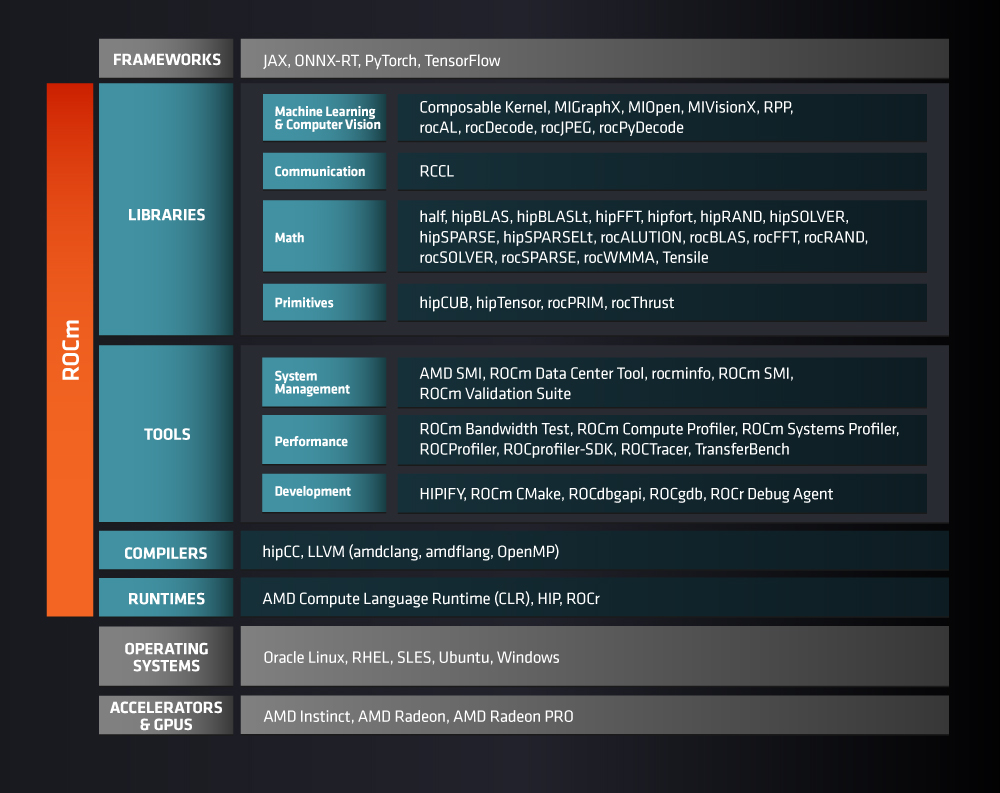
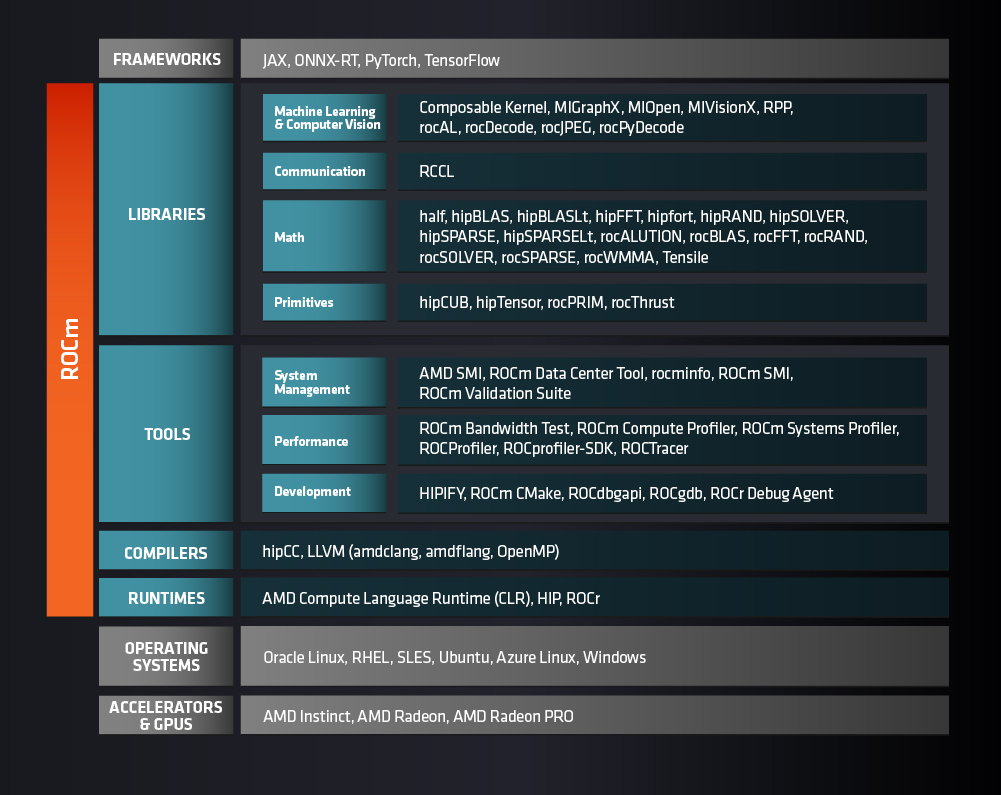
Add GitHub issue links in known issues + update stack diagram (#4091)
* add GitHub issue links in known issues

* Update stack diagram

* remove extra img

diff --git a/tools/autotag/templates/known_issues/6.3.0.md b/tools/autotag/templates/known_issues/6.3.0.md
@@ -6,12 +6,13 @@ issues related to individual components, review the [Detailed component changes]
 ### Instinct MI300X reports incorrect raw GPU timestamps
 
 On MI300X accelerators, the command processor firmware reports incorrect raw GPU timestamps. This
-issue is under investigation and will be addressed in a future release.
+issue is under investigation and will be addressed in a future release. See [GitHub issue #4079](https://github.com/ROCm/ROCm/issues/4079).
 
 ### Instinct MI300 series: backward weights convolution performance issue
 
 A performance issue affects certain tensor shapes during backward weights convolution when using
 FP16 or FP32 data types on Instinct MI300 series accelerators. This issue will be addressed in a future ROCm release.
+See [GitHub issue #4080](https://github.com/ROCm/ROCm/issues/4080).
 
 To mitigate the issue during model training, set the following environment variables:
 
@@ -30,7 +31,7 @@ section in the workload optimization guide to learn more about MIOpen's auto-tun
 
 TransferBench packages included in the ROCm 6.3.0 release are not compiled properly and are not
 functional for most GPU targets, with the exception of gfx906. Full functionality will be available
-in a future ROCm release.
+in a future ROCm release. See [GitHub issue #4081](https://github.com/ROCm/ROCm/issues/4081).
 
 TransferBench is a utility for benchmarking simultaneous transfers between user-specified devices
 (CPUs or GPUs). See the documentation at [TransferBench
@@ -45,6 +46,7 @@ Instead, use `apt install rocprofiler-compute`. See [ROCm Compute Profiler 3.0.0
 
 When upgrading from ROCm 6.2 to 6.3, any existing `/opt/rocm-6.2/../omniperf` folders are not
 automatically removed. To clean up these folders, manually uninstall Omniperf using `apt remove omniperf`.
+See [GitHub issue #4082](https://github.com/ROCm/ROCm/issues/4082).
 
 ### ROCm Systems Profiler post-upgrade
 
@@ -53,6 +55,7 @@ Instead, use `apt install rocprofiler-systems`. See [ROCm Systems Profiler 0.1.0
 
 When upgrading from ROCm 6.2 to 6.3, any existing `/opt/rocm-6.2/../omnitrace` folders are not
 automatically removed. To clean up these folders, manually uninstall Omnitrace using `apt remove omnitrace`.
+See [GitHub issue #4083](https://github.com/ROCm/ROCm/issues/4083).
 
 ### Stale file due to OpenCL ICD loader deprecation
 
@@ -60,7 +63,7 @@ When upgrading from ROCm 6.2.x to ROCm 6.3.0, the [removal of the `rocm-icd-load
 package](#opencl-icd-loader-separated-from-rocm) leaves a stale file in the old `rocm-6.2.x`
 directory. This has no functional impact. As a workaround, manually uninstall the
 `rocm-icd-loader` package to remove the stale file. This issue will be addressed in a future ROCm
-release.
+release. See [GitHub issue #4084](https://github.com/ROCm/ROCm/issues/4084).
 
 ### ROCm Compute Profiler CTest failure in CI
 
@@ -68,7 +71,7 @@ When running ROCm Compute Profiler's (`rocprof-compute`) CTest in the Azure CI e
 `rocprof-compute` execution test fails. This issue is due to an outdated test file that was not renamed
 (`omniperf` to `rocprof-compute`), and due to the `ROCM_PATH` environment variable not being set in
 the Azure CI environment, causing the tool to be unable to extract chip information as expected.
-This issue will be addressed in a future ROCm release.
+This issue will be addressed in a future ROCm release. See [GitHub issue #4085](https://github.com/ROCm/ROCm/issues/4085).
 
 ### MIVisionX memory access fault in Canny edge detection
 
@@ -76,7 +79,7 @@ Canny edge detection kernels might access out-of-bounds memory locations while
 computing gradient intensities on edge pixels. This issue is isolated to
 Canny-specific use cases on Instinct MI300 series accelerators. This issue is
 resolved in the [MIVisionX `develop` branch](https://github.com/ROCm/mivisionx)
-and will be part of a future ROCm release.
+and will be part of a future ROCm release. See [GitHub issue #4086](https://github.com/ROCm/ROCm/issues/4086).
 
 ### Transformer Engine test_distributed_fused_attn aborts with fatal Python error
 
@@ -84,18 +87,20 @@ The `test_distributed_fused_attn` Pytest case for JAX in [Transformer Engine
 for ROCm](https://github.com/ROCm/TransformerEngine) fails with a fatal Python
 error under certain conditions. The root cause is unrelated Transformer Engine
 but due to some issue within XLA. This XLA issue is under investigation and
-will be addressed in a future release.
+will be addressed in a future release. See [GitHub issue #4087](https://github.com/ROCm/ROCm/issues/4087).
 
 ### AMD SMI manual build issue
 
 Manual builds of AMD SMI fail due to a broken link in its build configuration.
 This affects past AMD SMI releases as well. The fix is underway and will be
 applied to all branches at [https://github.com/ROCm/amdsmi](https://github.com/ROCm/amdsmi).
+See [GitHub issue #4088](https://github.com/ROCm/ROCm/issues/4088).
 
 ### ROCm Data Center Tool incorrect RHEL9 package version
 
 In previous versions of ROCm Data Center Tool (RDC) included with ROCm 6.2 for RHEL9, RDC's version
 number was incorrectly set to `1.0.0`. ROCm 6.3 includes RDC with the correct version number.
+See [GitHub issue #4089](https://github.com/ROCm/ROCm/issues/4089).
 
 ```{important}
 If you're using RHEL9, you must first uninstall the existing ROCm 6.2 RDC 1.0.0 package with `sudo yum
@@ -108,15 +113,4 @@ ROCm Validation Suite might fail for certain platforms if executed without the `
 specifying the configuration file. See [RVS command line
 options](https://rocm.docs.amd.com/projects/ROCmValidationSuite/en/docs-6.3.0/ug1main.html#command-line-options)
 for more information. This issue will be addressed in a future release.
-
-## ROCm resolved issues
-
-The following are previously known issues resolved in this release. For resolved issues related to
-individual components, review the [Detailed component changes](#detailed-component-changes).
-
-### Bandwidth limitation in gang and non-gang modes on Instinct MI300A
-
-Fixed an issue where expected target peak non-gang performance (~60 GB/s) and target peak gang
-performance (~90 GB/s) were not achieved. Previously, both gang and non-gang performance were
-observed to be limited at 45 GB/s. See [issue #3496](https://github.com/ROCm/ROCm/issues/3496) on
-GitHub.
+See [GitHub issue #4090](https://github.com/ROCm/ROCm/issues/4090).

diff --git a/RELEASE.md b/RELEASE.md
@@ -67,8 +67,8 @@ stack.
   This might include updating environment variables, commands, and paths as
   needed to avoid disruptions to your profiling or tracing workflows.
 
-  See [ROCm Compute Profiler](#rocm-compute-profiler-3-0-0) and [ROCm Systems
-  Profiler](#rocm-systems-profiler-0-1-0).
+  See [ROCm Compute Profiler 3.0.0](#rocm-compute-profiler-3-0-0) and [ROCm Systems
+  Profiler 0.1.0](#rocm-systems-profiler-0-1-0).
   ```
 
 ### SHARK AI toolkit for high-speed inferencing and serving introduced
@@ -1598,12 +1598,13 @@ issues related to individual components, review the [Detailed component changes]
 ### Instinct MI300X reports incorrect raw GPU timestamps
 
 On MI300X accelerators, the command processor firmware reports incorrect raw GPU timestamps. This
-issue is under investigation and will be addressed in a future release.
+issue is under investigation and will be addressed in a future release. See [GitHub issue #4079](https://github.com/ROCm/ROCm/issues/4079).
 
 ### Instinct MI300 series: backward weights convolution performance issue
 
 A performance issue affects certain tensor shapes during backward weights convolution when using
 FP16 or FP32 data types on Instinct MI300 series accelerators. This issue will be addressed in a future ROCm release.
+See [GitHub issue #4080](https://github.com/ROCm/ROCm/issues/4080).
 
 To mitigate the issue during model training, set the following environment variables:
 
@@ -1622,7 +1623,7 @@ section in the workload optimization guide to learn more about MIOpen's auto-tun
 
 TransferBench packages included in the ROCm 6.3.0 release are not compiled properly and are not
 functional for most GPU targets, with the exception of gfx906. Full functionality will be available
-in a future ROCm release.
+in a future ROCm release. See [GitHub issue #4081](https://github.com/ROCm/ROCm/issues/4081).
 
 TransferBench is a utility for benchmarking simultaneous transfers between user-specified devices
 (CPUs or GPUs). See the documentation at [TransferBench
@@ -1637,6 +1638,7 @@ Instead, use `apt install rocprofiler-compute`. See [ROCm Compute Profiler 3.0.0
 
 When upgrading from ROCm 6.2 to 6.3, any existing `/opt/rocm-6.2/../omniperf` folders are not
 automatically removed. To clean up these folders, manually uninstall Omniperf using `apt remove omniperf`.
+See [GitHub issue #4082](https://github.com/ROCm/ROCm/issues/4082).
 
 ### ROCm Systems Profiler post-upgrade
 
@@ -1645,6 +1647,7 @@ Instead, use `apt install rocprofiler-systems`. See [ROCm Systems Profiler 0.1.0
 
 When upgrading from ROCm 6.2 to 6.3, any existing `/opt/rocm-6.2/../omnitrace` folders are not
 automatically removed. To clean up these folders, manually uninstall Omnitrace using `apt remove omnitrace`.
+See [GitHub issue #4083](https://github.com/ROCm/ROCm/issues/4083).
 
 ### Stale file due to OpenCL ICD loader deprecation
 
@@ -1652,7 +1655,7 @@ When upgrading from ROCm 6.2.x to ROCm 6.3.0, the [removal of the `rocm-icd-load
 package](#opencl-icd-loader-separated-from-rocm) leaves a stale file in the old `rocm-6.2.x`
 directory. This has no functional impact. As a workaround, manually uninstall the
 `rocm-icd-loader` package to remove the stale file. This issue will be addressed in a future ROCm
-release.
+release. See [GitHub issue #4084](https://github.com/ROCm/ROCm/issues/4084).
 
 ### ROCm Compute Profiler CTest failure in CI
 
@@ -1660,7 +1663,7 @@ When running ROCm Compute Profiler's (`rocprof-compute`) CTest in the Azure CI e
 `rocprof-compute` execution test fails. This issue is due to an outdated test file that was not renamed
 (`omniperf` to `rocprof-compute`), and due to the `ROCM_PATH` environment variable not being set in
 the Azure CI environment, causing the tool to be unable to extract chip information as expected.
-This issue will be addressed in a future ROCm release.
+This issue will be addressed in a future ROCm release. See [GitHub issue #4085](https://github.com/ROCm/ROCm/issues/4085).
 
 ### MIVisionX memory access fault in Canny edge detection
 
@@ -1668,7 +1671,7 @@ Canny edge detection kernels might access out-of-bounds memory locations while
 computing gradient intensities on edge pixels. This issue is isolated to
 Canny-specific use cases on Instinct MI300 series accelerators. This issue is
 resolved in the [MIVisionX `develop` branch](https://github.com/ROCm/mivisionx)
-and will be part of a future ROCm release.
+and will be part of a future ROCm release. See [GitHub issue #4086](https://github.com/ROCm/ROCm/issues/4086).
 
 ### Transformer Engine test_distributed_fused_attn aborts with fatal Python error
 
@@ -1676,18 +1679,20 @@ The `test_distributed_fused_attn` Pytest case for JAX in [Transformer Engine
 for ROCm](https://github.com/ROCm/TransformerEngine) fails with a fatal Python
 error under certain conditions. The root cause is unrelated Transformer Engine
 but due to some issue within XLA. This XLA issue is under investigation and
-will be addressed in a future release.
+will be addressed in a future release. See [GitHub issue #4087](https://github.com/ROCm/ROCm/issues/4087).
 
 ### AMD SMI manual build issue
 
 Manual builds of AMD SMI fail due to a broken link in its build configuration.
 This affects past AMD SMI releases as well. The fix is underway and will be
 applied to all branches at [https://github.com/ROCm/amdsmi](https://github.com/ROCm/amdsmi).
+See [GitHub issue #4088](https://github.com/ROCm/ROCm/issues/4088).
 
 ### ROCm Data Center Tool incorrect RHEL9 package version
 
 In previous versions of ROCm Data Center Tool (RDC) included with ROCm 6.2 for RHEL9, RDC's version
 number was incorrectly set to `1.0.0`. ROCm 6.3 includes RDC with the correct version number.
+See [GitHub issue #4089](https://github.com/ROCm/ROCm/issues/4089).
 
 ```{important}
 If you're using RHEL9, you must first uninstall the existing ROCm 6.2 RDC 1.0.0 package with `sudo yum
@@ -1700,6 +1705,7 @@ ROCm Validation Suite might fail for certain platforms if executed without the `
 specifying the configuration file. See [RVS command line
 options](https://rocm.docs.amd.com/projects/ROCmValidationSuite/en/docs-6.3.0/ug1main.html#command-line-options)
 for more information. This issue will be addressed in a future release.
+See [GitHub issue #4090](https://github.com/ROCm/ROCm/issues/4090).
 
 ## ROCm resolved issues
 
